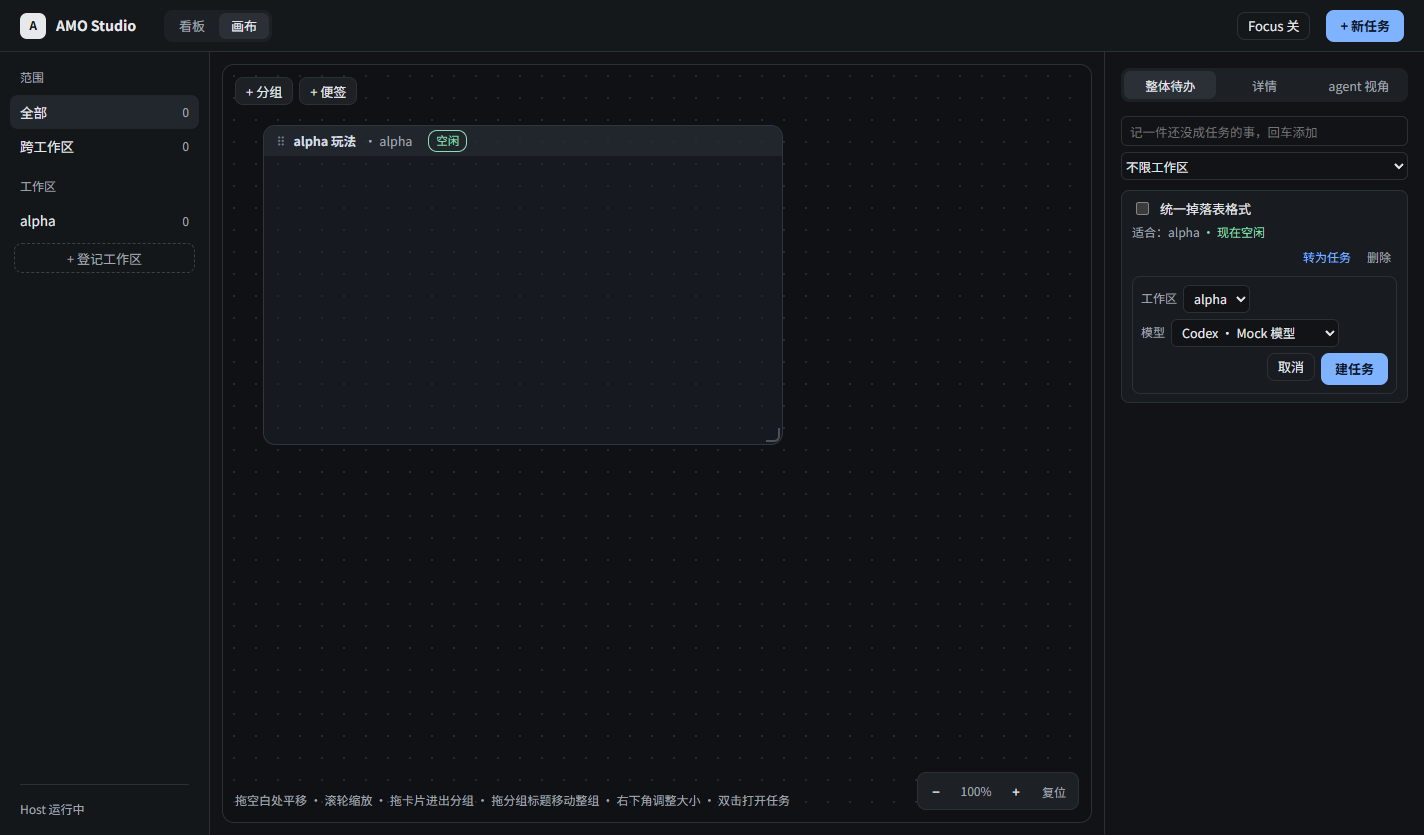
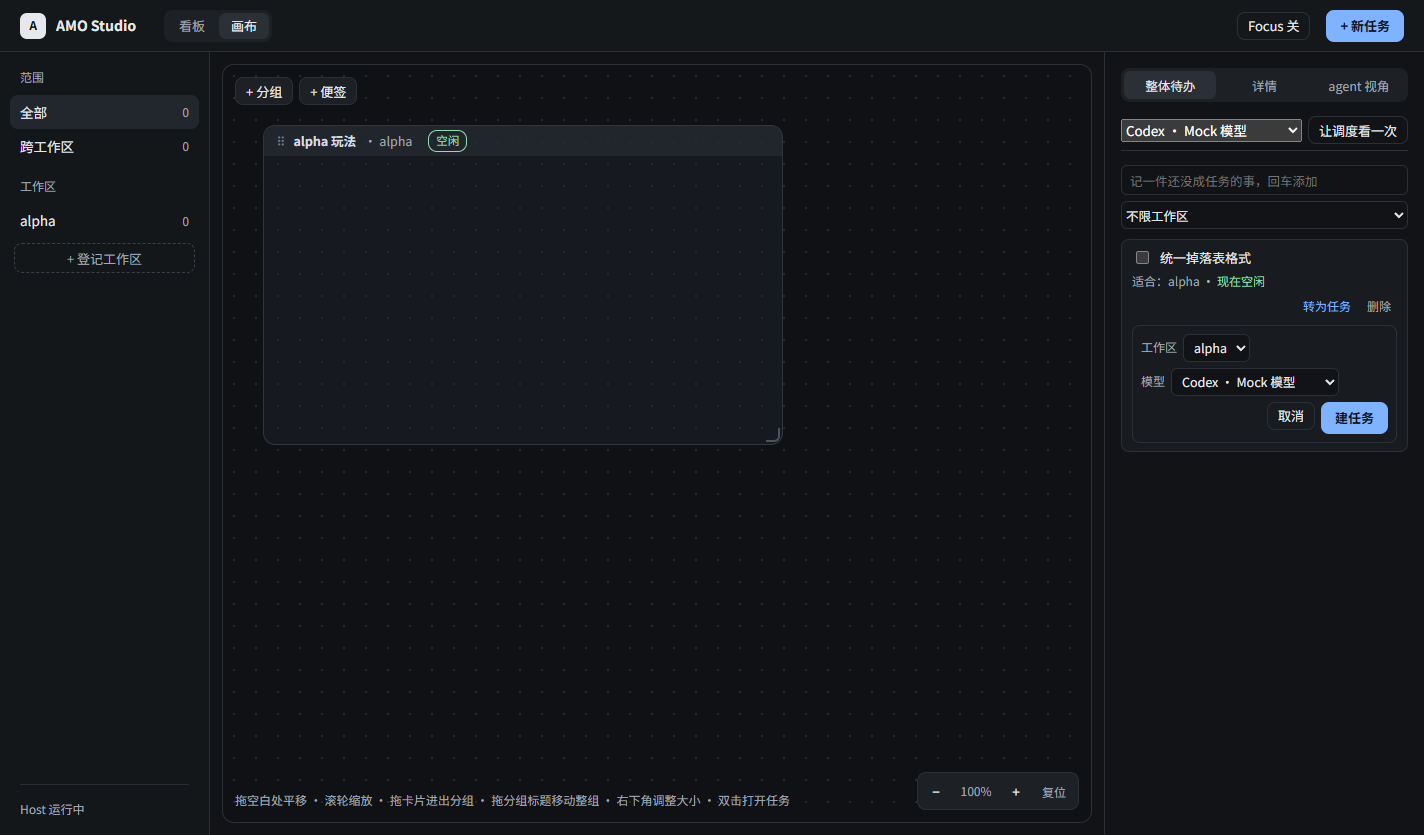
feat(studio): scheduler round by hand; schedule_propose for the scheduler's sessions (S7-04, S7-05)

Changed region(s): [[0.7725, 0.1246, 0.9888, 0.5293], [0.927, 0.2802, 0.9888, 0.3114]]

diff --git a/studio/packages/host/src/service.ts b/studio/packages/host/src/service.ts
@@ -33,12 +33,13 @@ import type {
   PresetDraft,
   ScheduleProposal,
 } from "@amo-studio/protocol";
-import { PACKS_DIR, addDependency, addGroupAuto, CanvasLayoutError, canvasOutline, composeAnnotationMessage, emptyCanvas, MAIN_CANVAS_ID, placeTask, TASK_COLUMNS, validateCanvas } from "@amo-studio/protocol";
+import { PACKS_DIR, workspacesActivity, addDependency, addGroupAuto, CanvasLayoutError, canvasOutline, composeAnnotationMessage, emptyCanvas, MAIN_CANVAS_ID, placeTask, TASK_COLUMNS, validateCanvas } from "@amo-studio/protocol";
 import { newId, type HostEventInput, type Store } from "./store/store.js";
 import type { SendMode, SessionRuntimeApi } from "./runtime/runtime.js";
 import type { TerminalHandle, TerminalLauncher } from "./terminal/launcher.js";
 import { PackError, PackLoader } from "./packs/pack-loader.js";
 import { presetDraft } from "./packs/presets.js";
+import { schedulerBrief } from "./scheduler/brief.js";
 
 /** Env var that carries the app-server token into an attached terminal; never put the token itself on a command line. */
 export const TERMINAL_TOKEN_ENV = "AMO_STUDIO_CODEX_TOKEN";
@@ -65,6 +66,7 @@ const MAX_QUESTION_CHARS = 2000;
 const MAX_OPTION_CHARS = 200;
 /** Proposals one scheduler session (one round) may make (design/scheduler.md). */
 export const PROPOSALS_PER_ROUND = 3;
+const SCHEDULER_TASK_KEY = "scheduler:task";
 
 function boundedText(value: unknown, field: string, max: number): string {
   const text = typeof value === "string" ? value.trim() : "";
@@ -384,6 +386,46 @@ export class HostService extends EventEmitter<HostServiceEvents> {
     this.store.putProposal(p);
     this.publish({ type: "proposal.upserted", proposal: p });
     return p;
+  }
+
+  /** The fixed cross-workspace task the scheduler's sessions live in (made on first use). */
+  schedulerTask(): Task {
+    const id = this.store.getKv(SCHEDULER_TASK_KEY)?.value;
+    const existing = id ? this.store.getTask(id) : undefined;
+    if (existing) return existing;
+    const task = this.store.createTask({ title: "调度", scope: { kind: "area" }, column: "doing" });
+    this.store.setKv(SCHEDULER_TASK_KEY, task.id);
+    this.publish({ type: "task.upserted", task });
+    return task;
+  }
+
+  isSchedulerSession(sessionId: Id): boolean {
+    const id = this.store.getKv(SCHEDULER_TASK_KEY)?.value;
+    return !!id && this.store.getSession(sessionId)?.taskId === id;
+  }
+
+  /**
+   * One scheduler round, started by the person: a new session in the scheduler task whose first message is the brief
+   * (open todos, which projects are free, models, presets, rules). It can only propose; the person approves.
+   */
+  async runScheduler(input: { profileId?: unknown } = {}): Promise<{ task: Task; session: Session }> {
+    if (typeof input?.profileId !== "string") throw new HostError("bad_request", "profileId is required");
+    this.requireProfile(input.profileId);
+    const workspaces = this.store.listWorkspaces();
+    // A session needs a working directory; the scheduler only reads Studio through the MCP and is told not to touch
+    // files, so the first registered workspace serves.
+    if (!workspaces.length) throw new HostError("bad_request", "register a workspace first");
+    const task = this.schedulerTask();
+    const text = schedulerBrief({
+      todos: this.store.listTodos(),
+      workspaces,
+      activity: workspacesActivity(workspaces, this.store.listSessions()),
+      profiles: this.profiles,
+      packs: workspaces.flatMap((w) => this.packs(w.id).map((p) => ({ ...p, workspaceId: w.id }))),
+      perRound: PROPOSALS_PER_ROUND,
+    });
+    const session = await this.addSession(task.id, { profileId: input.profileId, workspaceId: workspaces[0]!.id, text });
+    return { task: this.store.getTask(task.id)!, session };
   }
 
   /** Approves a proposal, with the person's edits: the todo becomes a task and its first session starts with the prompt. */

diff --git a/studio/e2e/tests/scheduler.spec.ts b/studio/e2e/tests/scheduler.spec.ts
@@ -108,3 +108,44 @@ test("scheduler proposals wait on the board until the person approves or rejects
   await expect(page.getByTestId("msg-agent").last()).toContainText("MOCK: 统一 drops.json 的字段，先别改 skills", { timeout: 60_000 });
   await expect(focus.getByTestId("focus-proposals")).toHaveCount(0);
 });
+
+test("stage 7 acceptance: a scheduler round by hand, a proposal, approval, work starts", async () => {
+  studio = await launchStudio();
+  const { page } = studio;
+  const alpha = await studio.api<Workspace>("POST", "/api/workspaces", { path: studio.workspace("alpha") });
+  const canvas = await studio.api<CanvasDoc>("GET", "/api/canvas");
+  await studio.api("PUT", "/api/canvas", { ...canvas, groups: [{ id: "g-alpha", title: "alpha 玩法", workspaceId: alpha.id, rect: { x: 40, y: 60, w: 520, h: 300 } }] });
+  const todo = await studio.api<TodoItem>("POST", "/api/todos", { text: "统一掉落表格式", workspaceId: alpha.id });
+
+  // The person starts one round from the todo tab; the round's session opens in the fixed "调度" task.
+  await page.getByRole("button", { name: "画布", exact: true }).click();
+  await page.getByRole("tab", { name: "整体待办" }).click();
+  const todos = page.getByRole("group", { name: "整体待办" });
+  await expect(todos.getByTestId("todo").first()).toContainText("现在空闲");
+  await todos.getByLabel("调度用的模型").selectOption({ label: "Codex · Mock 模型" });
+  await todos.getByRole("button", { name: "让调度看一次" }).click();
+  await expect(page.locator(".page-head")).toContainText("调度");
+  await expect(page.getByTestId("msg-user").first()).toContainText(`todoId=${todo.id}：统一掉落表格式（适合：alpha）`);
+  await expect(page.getByTestId("msg-agent").last()).toContainText("MOCK: 你是 AMO Studio 的调度 agent", { timeout: 60_000 });
+
+  // The mock model proposes only when told to: the person asks it to, the way the real model would on its own.
+  const composer = page.getByLabel("输入消息");
+  await composer.fill(`[[mcp: schedule_propose {"todoId":"${todo.id}","workspace":"${alpha.id}","profileId":"codex-mock","prompt":"统一 drops.json 的字段","reason":"alpha 空闲"}]]`);
+  await composer.press("Enter");
+  await expect(page.getByTestId("msg-agent").last()).toContainText("MOCK-MCP:", { timeout: 60_000 });
+  await expect(page.getByTestId("needs-you")).toHaveText(/需要你 1/);
+
+  // On the board: approve; the todo's task starts in the bound group with the proposed prompt.
+  await page.getByRole("button", { name: "← 看板" }).click();
+  const card = page.getByTestId("proposal-card");
+  await expect(card).toContainText("统一掉落表格式");
+  await expect(card).toContainText("alpha 空闲");
+  await screenshot(studio.app, "stage-7", "S7-05-acceptance", page);
+  await card.getByRole("button", { name: "批准开工" }).click();
+  await expect(page.locator(".page-head")).toContainText("统一掉落表格式");
+  await expect(page.getByTestId("msg-agent").last()).toContainText("MOCK: 统一 drops.json 的字段", { timeout: 60_000 });
+  const state = await studio.api<{ tasks: Task[] }>("GET", "/api/state");
+  const task = state.tasks.find((t) => t.title === "统一掉落表格式")!;
+  expect((await studio.api<CanvasDoc>("GET", "/api/canvas")).nodes.find((n) => n.kind === "task" && n.taskId === task.id)?.groupId).toBe("g-alpha");
+  expect((await studio.api<TodoItem[]>("GET", "/api/todos")).find((t) => t.id === todo.id)).toMatchObject({ done: true, taskId: task.id });
+});

diff --git a/studio/packages/host/src/scheduler/brief.ts b/studio/packages/host/src/scheduler/brief.ts
@@ -1,0 +1,42 @@
+import type { ModelProfile, TodoItem, Workspace, WorkspaceActivity, WorkspacePack } from "@amo-studio/protocol";
+
+// The first message of a scheduler round (design/scheduler.md): what is open, which projects are free, which models and
+// presets exist, and the rules. The agent answers by calling schedule_propose; it never starts work itself.
+
+export interface SchedulerBriefInput {
+  todos: readonly TodoItem[];
+  workspaces: readonly Workspace[];
+  activity: ReadonlyMap<string, WorkspaceActivity>;
+  profiles: readonly ModelProfile[];
+  packs: ReadonlyArray<WorkspacePack & { workspaceId: string }>;
+  perRound: number;
+}
+
+export function schedulerBrief(input: SchedulerBriefInput): string {
+  const ws = (id: string | null) => (id ? (input.workspaces.find((w) => w.id === id)?.name ?? "?") : "未指定");
+  const open = input.todos.filter((t) => !t.done && !t.taskId);
+  const lines: string[] = [
+    "你是 AMO Studio 的调度 agent。请看下面的整体待办和各工程是否空闲，挑出现在适合开工的待办，用 amo MCP 的 schedule_propose 工具为每一条提出提案。",
+    "",
+    "规则：",
+    `- 只提案，不要自己开会话、不要修改文件、不要运行命令；提案要等人批准后才会开工。`,
+    `- 这一轮最多提 ${input.perRound} 条；忙碌的工程不要提；没有合适的就不提，直接说明原因。`,
+    "- 每条提案写清楚：todoId、workspace（工作区 id）、profileId（模型）、prompt（新会话的第一句话，具体到要做什么）、reason（一两句话：为什么是现在、为什么是这个工程）。",
+    "- 如果工程的扩展包里有合适的启动预设，可以参考它的写法。",
+    "- 提完后用一两句话总结你提了什么。",
+    "",
+    "## 整体待办（未完成）",
+  ];
+  if (!open.length) lines.push("（没有）");
+  for (const t of open) lines.push(`- todoId=${t.id}：${t.text}（适合：${ws(t.workspaceId)}）`);
+  lines.push("", "## 工程");
+  for (const w of input.workspaces) {
+    const a = input.activity.get(w.id);
+    lines.push(`- ${w.name}（id=${w.id}）：${a?.idle === false ? `忙碌，${a.busy} 个会话在进行` : "空闲"}`);
+  }
+  lines.push("", "## 可用的模型");
+  for (const p of input.profiles) lines.push(`- profileId=${p.id}：${p.label}`);
+  const presets = input.packs.flatMap((p) => (p.manifest ? p.manifest.presets.map((x) => `- ${ws(p.workspaceId)} / ${p.manifest!.title} / ${x.title}`) : []));
+  if (presets.length) lines.push("", "## 扩展包里的启动预设（可以用 pack_list / pack_doc 查看详情）", ...presets);
+  return lines.join("\n");
+}

diff --git a/studio/packages/ui/src/canvas/TodoTab.tsx b/studio/packages/ui/src/canvas/TodoTab.tsx
@@ -46,7 +46,7 @@ export function TodoTab({
   link: HostLink;
   workspaces: readonly Workspace[];
   profiles?: readonly ModelProfile[];
-  onOpenTask?(taskId: string): void;
+  onOpenTask?(taskId: string, sessionId?: string): void;
   /** Whether each workspace is free: open todos for free projects come first and say so. */
   activity?: ReadonlyMap<string, WorkspaceActivity>;
 }) {
@@ -116,6 +116,7 @@ export function TodoTab({
 
   return (
     <div className="side-section" role="group" aria-label="整体待办">
+      <SchedulerRun link={link} profiles={profiles} onStarted={(taskId, sessionId) => onOpenTask?.(taskId, sessionId)} disabled={!open.length} />
       <form
         className="todo-add"
         onSubmit={(e) => {
@@ -204,6 +205,43 @@ function ConvertForm({
           建任务
         </button>
       </div>
+    </div>
+  );
+}
+
+/**
+ * "让调度看一次": one scheduler round, by hand (no timer until the person decides, design/scheduler.md). It opens the
+ * round's session so the person can watch it; proposals then wait on the board.
+ */
+function SchedulerRun({ link, profiles, onStarted, disabled }: { link: HostLink; profiles: readonly ModelProfile[]; onStarted(taskId: string, sessionId: string): void; disabled: boolean }) {
+  const [profileId, setProfileId] = useState(() => (profiles.find((p) => /glm/i.test(p.id)) ?? defaultProfile(profiles))?.id ?? "");
+  const [busy, setBusy] = useState(false);
+  const [error, setError] = useState("");
+  async function run() {
+    setBusy(true);
+    setError("");
+    try {
+      const r = await call(link, "POST /api/scheduler/run", {}, { profileId });
+      onStarted(r.task.id, r.session.id);
+    } catch (err) {
+      setError(err instanceof HostApiError ? err.message : String(err));
+    } finally {
+      setBusy(false);
+    }
+  }
+  return (
+    <div className="scheduler-run">
+      <select value={profileId} onChange={(e) => setProfileId(e.target.value)} aria-label="调度用的模型">
+        {profiles.map((p) => (
+          <option key={p.id} value={p.id}>
+            {profileLabel(p)}
+          </option>
+        ))}
+      </select>
+      <button type="button" className="btn-ghost small" onClick={() => void run()} disabled={busy || disabled || !profileId} title="调度 agent 看一遍待办和空闲的工程，提出开工提案；你批准后才开工">
+        让调度看一次
+      </button>
+      {error && <span className="form-error">{error}</span>}
     </div>
   );
 }

diff --git a/studio/packages/host/src/mcp/amo-mcp.test.ts b/studio/packages/host/src/mcp/amo-mcp.test.ts
@@ -209,6 +209,27 @@ describe("AMO MCP", () => {
     await client.close();
   });
 
+  it("offers schedule_propose only to the scheduler's sessions", async () => {
+    const alpha = store.listWorkspaces().find((w) => w.name === "alpha")!;
+    const scheduler = service.schedulerTask();
+    const round = store.createSession({ taskId: scheduler.id, parentId: null, kind: "main", runtime: "codex", profileId: "p-ds", workspaceId: alpha.id, title: "调度", status: "idle", writer: "workbench", runtimeRef: "t-sched" });
+    const todo = service.addTodo({ text: "统一掉落表格式", workspaceId: alpha.id });
+
+    const normal = await connect(MCP_TOKEN, identities.tokenFor(mainSessionId));
+    expect((await normal.listTools()).tools.map((t) => t.name)).not.toContain("schedule_propose");
+    await normal.close();
+
+    const client = await connect(MCP_TOKEN, identities.tokenFor(round.id));
+    expect((await client.listTools()).tools.map((t) => t.name)).toContain("schedule_propose");
+    const made = (await call(client, "schedule_propose", { todoId: todo.id, profileId: "p-ds", prompt: "统一 drops.json", reason: "alpha 空闲" })).data;
+    expect(made).toMatchObject({ state: "pending" });
+    expect(service.proposals({ state: "pending" })).toMatchObject([{ todoId: todo.id, sessionId: round.id, workspaceId: alpha.id, reason: "alpha 空闲" }]);
+    const again = await call(client, "schedule_propose", { todoId: todo.id, profileId: "p-ds", prompt: "再来" });
+    expect(again.isError).toBe(true);
+    expect(again.content[0]!.text).toBe("this todo already has a pending proposal");
+    await client.close();
+  });
+
   it("asks the person for a decision; the answer comes back as mail", async () => {
     const client = await connect(MCP_TOKEN, identities.tokenFor(mainSessionId));
     const asked = (await call(client, "decision_request", { question: "重试几次？", options: ["3 次", "5 次"] })).data;

diff --git a/studio/packages/host/src/scheduler/brief.test.ts b/studio/packages/host/src/scheduler/brief.test.ts
@@ -1,0 +1,27 @@
+import { describe, expect, it } from "vitest";
+import { schedulerBrief } from "./brief.js";
+
+describe("schedulerBrief", () => {
+  it("lists open todos, which projects are free, models and presets, with the rules", () => {
+    const text = schedulerBrief({
+      todos: [
+        { id: "td1", text: "统一掉落表格式", done: false, workspaceId: "w1", taskId: null, createdAt: "" },
+        { id: "td2", text: "已转的", done: true, workspaceId: "w1", taskId: "t1", createdAt: "" },
+        { id: "td3", text: "随便看看", done: false, workspaceId: null, taskId: null, createdAt: "" },
+      ],
+      workspaces: [{ id: "w1", name: "alpha" }, { id: "w2", name: "beta" }] as never,
+      activity: new Map([["w1", { workspaceId: "w1", idle: true, busy: 0 }], ["w2", { workspaceId: "w2", idle: false, busy: 2 }]]),
+      profiles: [{ id: "claude-glm", label: "Claude · GLM" }] as never,
+      packs: [{ workspaceId: "w1", dirName: "demo", dir: "", errors: [], warnings: [], manifest: { schemaVersion: 1, name: "demo", title: "示例", docs: [], templates: [], tools: [], presets: [{ id: "impl", title: "按约定实现", prompt: "x" }] } }],
+      perRound: 3,
+    });
+    expect(text).toContain("这一轮最多提 3 条");
+    expect(text).toContain("- todoId=td1：统一掉落表格式（适合：alpha）");
+    expect(text).toContain("- todoId=td3：随便看看（适合：未指定）");
+    expect(text).not.toContain("已转的");
+    expect(text).toContain("- alpha（id=w1）：空闲");
+    expect(text).toContain("- beta（id=w2）：忙碌，2 个会话在进行");
+    expect(text).toContain("- profileId=claude-glm：Claude · GLM");
+    expect(text).toContain("- alpha / 示例 / 按约定实现");
+  });
+});

diff --git a/studio/packages/host/src/http/server.test.ts b/studio/packages/host/src/http/server.test.ts
@@ -405,6 +405,22 @@ describe("Host API", () => {
     expect((await api("POST", "/api/proposals", { todoId: "nope", profileId: "p-ds", prompt: "x" })).status).toBe(404);
   });
 
+  it("runs a scheduler round by hand in the fixed scheduler task", async () => {
+    expect((await api("POST", "/api/scheduler/run", { profileId: "p-ds" })).status).toBe(400);
+    const ws = await ok<Workspace>("POST", "/api/workspaces", { path: join(root, "alpha") });
+    await ok("POST", "/api/todos", { text: "统一掉落表格式", workspaceId: ws.id });
+    const first = await ok<{ task: Task; session: Session }>("POST", "/api/scheduler/run", { profileId: "p-ds" });
+    expect(first.task).toMatchObject({ title: "调度", scope: { kind: "area" } });
+    expect(first.session.workspaceId).toBe(ws.id);
+    await until(async () => (await ok<SessionItem[]>("GET", `/api/sessions/${first.session.id}/items`)).some((i) => i.type === "user"), "brief");
+    const brief = (await ok<SessionItem[]>("GET", `/api/sessions/${first.session.id}/items`)).find((i) => i.type === "user") as { text: string };
+    expect(brief.text).toContain("统一掉落表格式");
+    expect(service.isSchedulerSession(first.session.id)).toBe(true);
+    const second = await ok<{ task: Task; session: Session }>("POST", "/api/scheduler/run", { profileId: "p-ds" });
+    expect(second.task.id).toBe(first.task.id);
+    expect(second.session.id).not.toBe(first.session.id);
+  });
+
   it("caps proposals per scheduler round", async () => {
     const ws = await ok<Workspace>("POST", "/api/workspaces", { path: join(root, "alpha") });
     const { session } = await createTask("scheduler");

diff --git a/studio/packages/host/src/mcp/tools.ts b/studio/packages/host/src/mcp/tools.ts
@@ -65,7 +65,26 @@ function write(caller: McpCaller | null, run: (caller: McpCaller) => unknown): T
 
 /** Every AMO tool for one caller (null: reading only). */
 export function amoToolsFor(service: HostService, caller: McpCaller | null): AmoTool[] {
-  return [...amoTools(new ReadModel(service)), ...writeTools(service, caller)];
+  // schedule_propose exists only for the scheduler's own sessions.
+  const scheduler = caller && service.isSchedulerSession(caller.sessionId) ? [proposeTool(service, caller)] : [];
+  return [...amoTools(new ReadModel(service)), ...writeTools(service, caller), ...scheduler];
+}
+
+function proposeTool(service: HostService, caller: McpCaller): AmoTool {
+  return {
+    name: "schedule_propose",
+    title: "调度提案",
+    description:
+      "Propose starting work on a whole-picture todo: which workspace (id), which model (profileId), the new session's first message (prompt) and why now (reason). Nothing starts until the person approves; at most 3 proposals per round.",
+    inputSchema: { todoId: z.string(), workspace: z.string().optional(), profileId: z.string(), prompt: z.string(), reason: z.string().optional() },
+    readOnly: false,
+    autoApprove: true,
+    run: (args) =>
+      write(caller, (c) => {
+        const p = service.propose({ todoId: args.todoId, workspaceId: args.workspace, profileId: args.profileId, prompt: args.prompt, reason: args.reason }, c.sessionId);
+        return { id: p.id, state: p.state, note: "Waiting for the person to approve on the board." };
+      }),
+  };
 }
 
 

diff --git a/studio/packages/host/src/http/server.ts b/studio/packages/host/src/http/server.ts
@@ -118,6 +118,7 @@ export async function startHostServer(options: HostServerOptions): Promise<HostS
     route("POST", "/api/mail/:id/forward", ({ params, body }) => service.forwardMail(params.id!, obj(body))),
     route("GET", "/api/decisions", ({ query }) => service.decisions(query.get("state") ? { state: query.get("state") as never } : {})),
     route("POST", "/api/decisions/:id/answer", ({ params, body }) => service.answerDecision(params.id!, obj(body).answer)),
+    route("POST", "/api/scheduler/run", ({ body }) => service.runScheduler(obj(body))),
     route("GET", "/api/proposals", ({ query }) => service.proposals(query.get("state") ? { state: query.get("state") as never } : {})),
     route("POST", "/api/proposals", ({ body }) => service.propose(obj(body))),
     route("POST", "/api/proposals/:id/approve", ({ params, body }) => service.approveProposal(params.id!, obj(body))),

diff --git a/studio/packages/host/src/mcp/names.ts b/studio/packages/host/src/mcp/names.ts
@@ -2,7 +2,7 @@
 // Shared by the tool definitions and the Codex server config (`tools.<name>.approval_mode = "approve"`).
 // Mail never enters a conversation by itself (the person forwards it), so sending and reading it need no approval.
 // Asking the person a question (decision_request) only puts it in front of them.
-export const AUTO_APPROVED_WRITE_TOOLS = ["task_note_add", "handoff_submit", "mailbox_send", "mailbox_read", "decision_request", "checklist_check"] as const;
+export const AUTO_APPROVED_WRITE_TOOLS = ["task_note_add", "handoff_submit", "mailbox_send", "mailbox_read", "decision_request", "checklist_check", "schedule_propose"] as const;
 
 // Writes the person approves first. Codex's default ("auto") lets tools annotated as non-destructive run unasked
 // (S5-05: canvas_group_create ran without a prompt), so these are set to "prompt" explicitly.

diff --git a/studio/packages/ui/src/styles/app.css b/studio/packages/ui/src/styles/app.css
@@ -490,3 +490,7 @@ a.md-link { cursor: pointer; }
 .proposals { margin: 16px 20px 0; padding: 12px 14px; border-radius: 10px; border: 1px solid var(--attention-border); background: var(--attention-bg); display: flex; flex-direction: column; gap: 10px; }
 .proposal-list { display: grid; grid-template-columns: repeat(auto-fill, minmax(360px, 1fr)); gap: 10px; }
 .proposal-card { display: flex; flex-direction: column; gap: 6px; padding: 10px 12px; border-radius: 8px; border: 1px solid var(--border); background: var(--panel); }
+
+/* Scheduler round (S7-04) */
+.scheduler-run { display: flex; gap: 6px; align-items: center; flex-wrap: wrap; padding-bottom: 6px; border-bottom: 1px solid var(--border); margin-bottom: 4px; }
+.scheduler-run select { flex: 1; min-width: 0; }

diff --git a/studio/packages/protocol/src/api.ts b/studio/packages/protocol/src/api.ts
@@ -117,6 +117,8 @@ export interface HostRoutes {
   /** Checklist items, `?taskId=` for one task; ordered by task, then position. */
   "GET /api/checklist": { req: void; res: ChecklistItem[] };
   "PATCH /api/checklist/:id": { req: { done: boolean }; res: ChecklistItem };
+  /** One scheduler round, started by the person: a session in the "调度" task that may only propose. */
+  "POST /api/scheduler/run": { req: { profileId: Id }; res: { task: Task; session: Session } };
   /** Scheduler proposals, `?state=pending` for the ones waiting for the person. */
   "GET /api/proposals": { req: void; res: ScheduleProposal[] };
   "POST /api/proposals": { req: { todoId: Id; workspaceId?: Id; profileId: Id; prompt: string; reason?: string }; res: ScheduleProposal };
